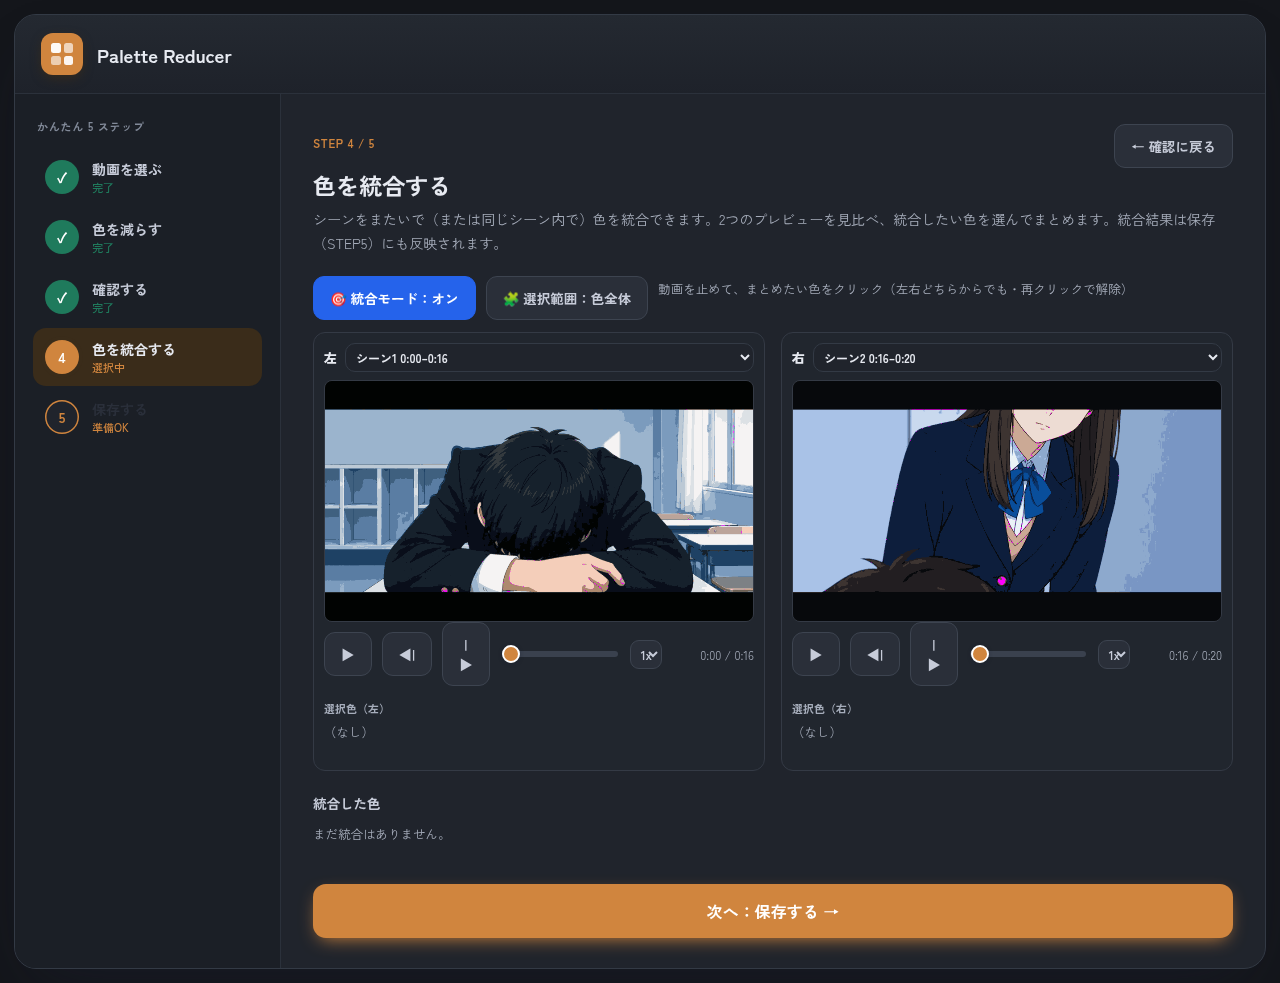
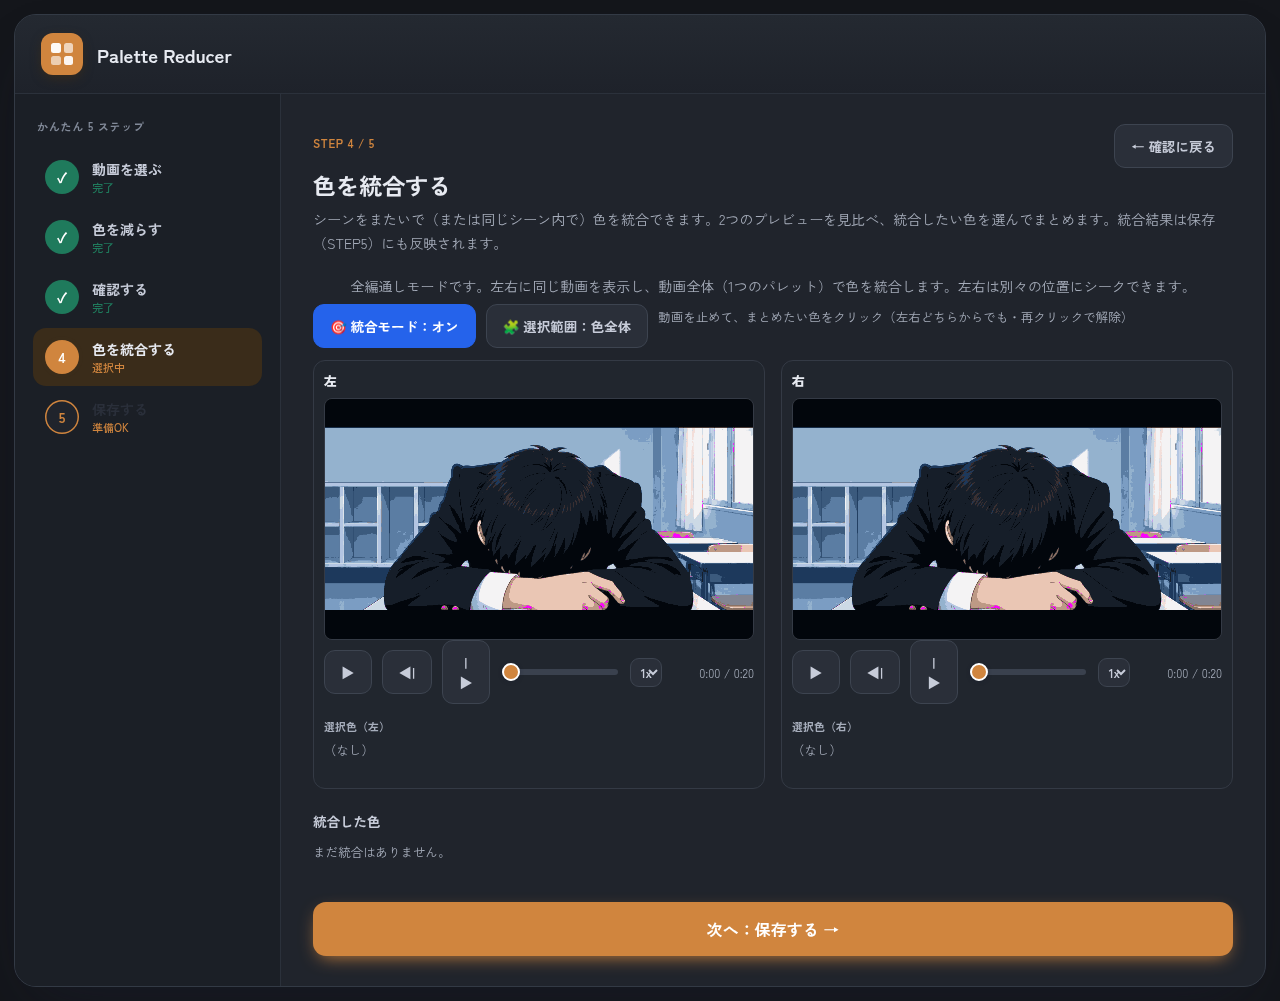
README: regenerate all five step screenshots for the current UI
Retaken headless at 1280px width on the reference video: STEP1 added
list; STEP2 with a region mask loaded, the lit mask-preview button and
the tinted preview paused on a two-subject frame with its seek/step
controls; STEP3 with the preview-visibility chips, the palette-edit
selector under the seek bar, and the new K slider (左端＝減色なし・
4〜1024) on a frame where both subjects are visible; STEP4 with merge
mode on; STEP5 export panel. Also folds in the user's latest README
trims.

diff --git a/README.md b/README.md
@@ -13,18 +13,13 @@
 ## できること
 
 - **色を減らす** … 動画全体を代表色（パレット）だけで作り直します. 色数は自動選択のほか, 手動で**4〜1024色**まで変えられます. 
-- **マスク別パレット** … キャラ・背景などの**領域マスク**を読み込むと, **領域ごとに独立したパレット**（色数・しきい値・色OFF）で減色できます. マスクは**連番PNG（クリスタ等で作成）またはZIP**を直接読み込めます. 
-- **減色なし** … 代表色スライダーの**左端**で量子化をバイパスし, そのまま出力できます. 領域ごとにも設定可能（例：背景は無加工のまま, キャラだけ16色）. 
-- **シーンごとに色を分ける**（全編通し／シーン別）… カット（場面）ごとに別々のパレットを作り, 各シーンに最適な色で減色できます. 
-- **いらない色をOFFにする** … パレットの色をクリックすると, その色を使わず**一番近い別の色に振り替え**られます. 
+- **マスク別パレット** … キャラ・背景などの**領域マスク**を読み込むと, **領域ごとに独立したパレット**（色数・しきい値・色OFF）で減色できます. マスクは**連番PNG（クリスタ等で作成）またはそれをまとめたZIP**を直接読み込めます. 
+- **シーンごとに色を分ける**（全編通し／シーン別）… カット（場面）ごとに別々のパレットを作り, 各シーンに最適な色で減色できます.
 - **色を統合する** … 似た色や, シーンをまたいでバラついた色を**1つにまとめ**られます. 色全体でも, **選んだ領域だけ**でも統合できます. 
-- **保存** … WebM / MP4 / 可逆圧縮 / 非圧縮RGB など多彩な形式で書き出し（音声なし・映像のみ）. 
 
 ---
 
 ## 使い方（5ステップ）
-
-画面を上から順に進めるだけです. 
 
 ### STEP 1 — 動画を選ぶ
 
